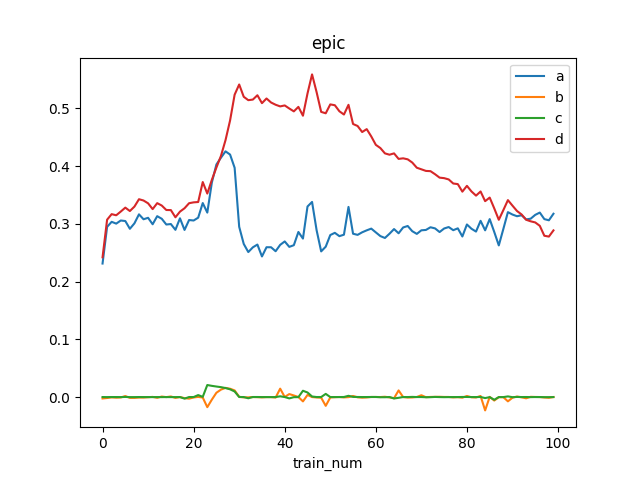
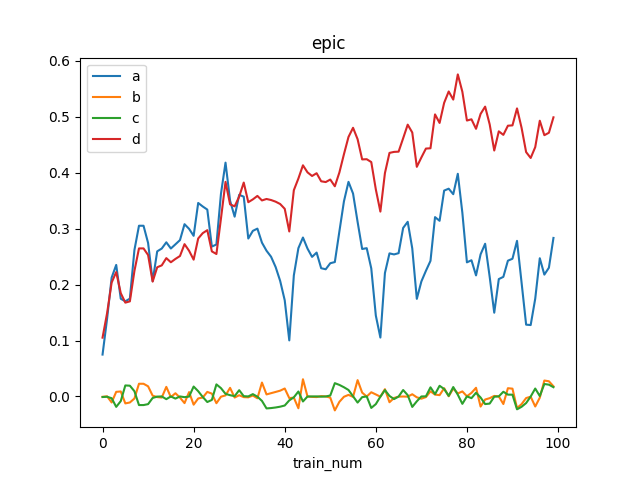
refactor

diff --git a/Execution/Model.py b/Execution/Model.py
@@ -20,14 +20,16 @@ class PPINs(keras.Model):
 
         with tf.GradientTape() as tape:
             y_pred = self(x, training=True)
-            """loss_1 = tf.reduce_mean(tf.square(y - y_pred)) + tf.reduce_mean(
-                tf.square(y_pred[:, 0] - y_pred[:, -1]))
-            loss_2 = tf.reduce_mean(
-                tf.square(PPINs.f_pred(y_pred, x, self.a, self.b, self.c, self.d)))
-            loss = tf.cond(loss_1 < 0.0155, lambda: loss_2, lambda: loss_1)"""
-            loss = tf.reduce_mean(tf.square(y - y_pred))  + tf.reduce_mean(tf.square(y_pred[0, :] - y[0, :])) \
+            """loss_1 = tf.reduce_mean(tf.square(y - y_pred)) + tf.reduce_mean(tf.square(y_pred[0, :] - y[0, :])) \
                    + tf.reduce_mean(tf.square(y_pred[:, 0] - y[:, 0])) + tf.reduce_mean(
                 tf.square(y_pred[:, -1] - y[:, -1]))
+            loss_2 = tf.reduce_mean(
+                tf.square(PPINs.f_pred(y_pred, x, self.a, self.b, self.c, self.d))) + loss_1
+            loss = tf.cond(loss_1 < 0.01, lambda: loss_2, lambda: loss_1)"""
+            loss = tf.reduce_mean(tf.square(y - y_pred)) + tf.reduce_mean(tf.square(y_pred[0, :] - y[0, :])) \
+                   + tf.reduce_mean(tf.square(y_pred[:, 0] - y[:, 0])) + tf.reduce_mean(
+                tf.square(y_pred[:, -1] - y[:, -1])) \
+                   + tf.reduce_mean(tf.square(self.f_pred(y_pred, x, self.a, self.b, self.c, self.d)))
         trainable_vars = self.trainable_variables
         gradients = tape.gradient(loss, trainable_vars)
         self.optimizer.apply_gradients(zip(gradients, trainable_vars))
@@ -37,11 +39,13 @@ class PPINs(keras.Model):
                 'd': self.d}
 
     @staticmethod
-    def f_pred(y_pred, x, a, b, c, d):
-        u = y_pred
-        u_x, u_t = tf.gradients(y_pred, x[0]), tf.gradients(y_pred, x[1])
-        u_xx = tf.gradients(u_x, x[0])
-        u_xxx = tf.gradients(u_xx, x[0])
+    def f_pred(u, x, a: tf.Variable, b: tf.Variable, c: tf.Variable, d: tf.Variable):
+        x = x[0]
+        t = x[1]
+        u_x = tf.gradients(u, x)
+        u_t = tf.gradients(u, t)
+        u_xx = tf.gradients(u_x, x)
+        u_xxx = tf.gradients(u_xx, x)
         return u_t + a * u_x + b * u_xx + c * u_xxx + d * u * u_x
 
     @staticmethod
